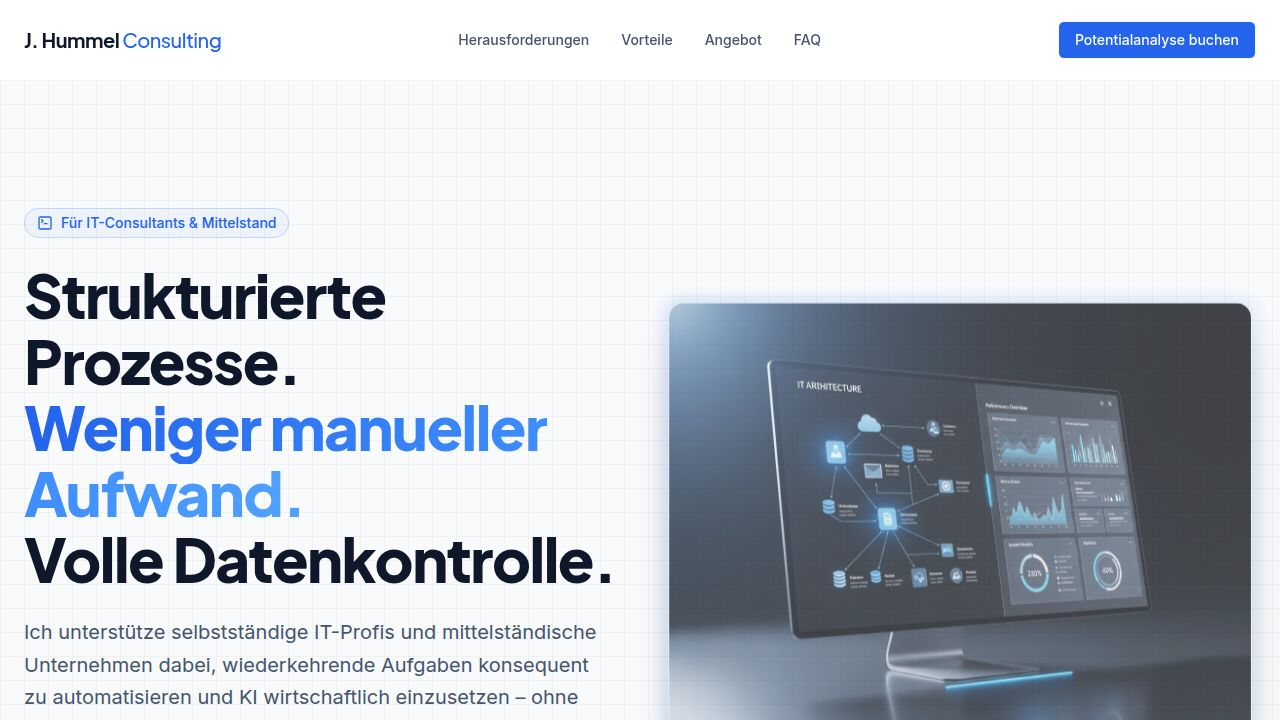
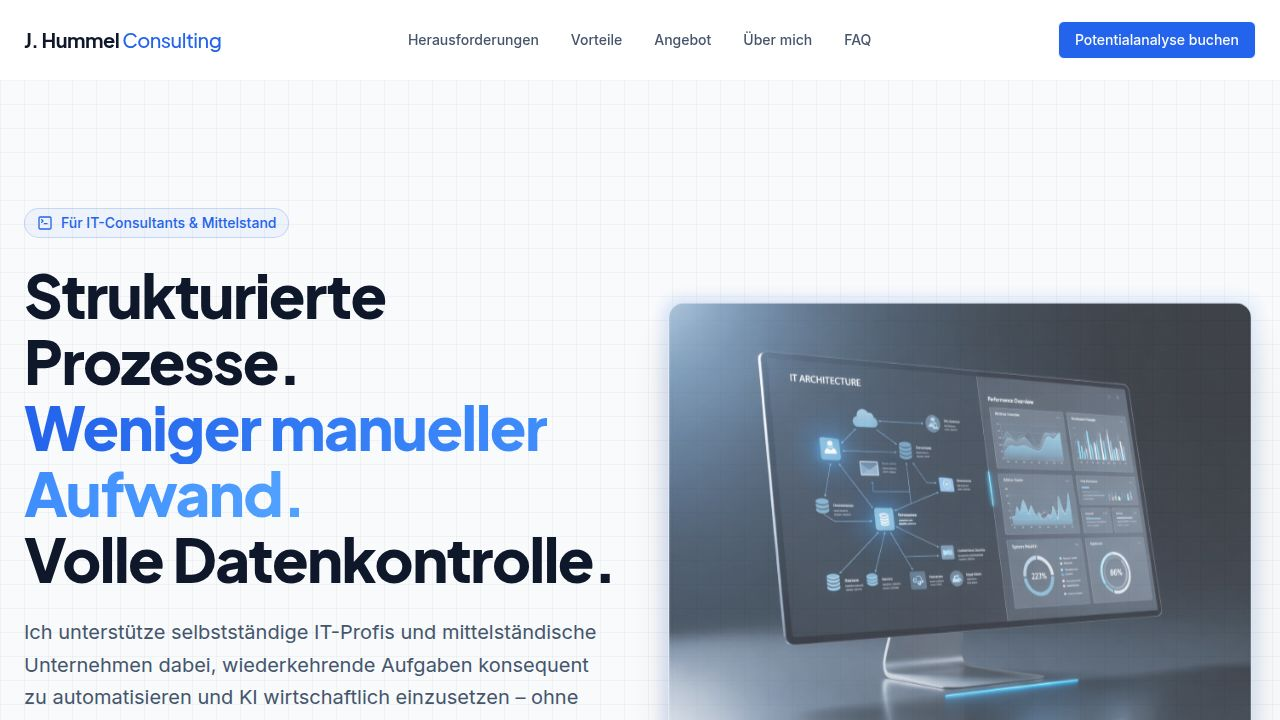
Add an "About Me" section with personal and professional details
Adds a new section to the homepage with a personal image, professional background, and areas of expertise, along with a corresponding navigation link.

Replit-Commit-Author: Agent
Replit-Commit-Session-Id: 31060581-7077-426e-ab5c-499efef7b3fa
Replit-Commit-Checkpoint-Type: full_checkpoint
Replit-Commit-Event-Id: f2a726f4-e91f-4652-91a8-ffe96a462d79
Replit-Commit-Screenshot-Url: https://storage.googleapis.com/screenshot-production-us-central1/801673db-f170-4c18-a2c9-297daf397d8e/31060581-7077-426e-ab5c-499efef7b3fa/I8k1oKl
Replit-Helium-Checkpoint-Created: true

Changed region(s): [[0.5938, 0.4889, 0.9688, 1.0], [0.3125, 0.0306, 0.6875, 0.0611], [0.625, 0.8861, 0.6562, 0.9167]]

diff --git a/client/src/pages/Home.tsx b/client/src/pages/Home.tsx
@@ -82,6 +82,7 @@ export default function Home() {
             <a href="#problem" className="hover:text-primary transition-colors">Herausforderungen</a>
             <a href="#vorteile" className="hover:text-primary transition-colors">Vorteile</a>
             <a href="#angebot" className="hover:text-primary transition-colors">Angebot</a>
+            <a href="#ueber-mich" className="hover:text-primary transition-colors">Über mich</a>
             <a href="#faq" className="hover:text-primary transition-colors">FAQ</a>
           </div>
           <Button onClick={scrollToContact} className="font-medium">
@@ -370,6 +371,77 @@ export default function Home() {
                   <p className="text-slate-400 leading-relaxed">{item.desc}</p>
                 </motion.div>
               ))}
+            </div>
+          </div>
+        </section>
+
+        {/* ÜBER MICH */}
+        <section id="ueber-mich" className="py-24 bg-white border-t border-slate-100">
+          <div className="max-w-7xl mx-auto px-6">
+            <div className="grid lg:grid-cols-5 gap-12 lg:gap-16 items-start">
+              <motion.div
+                initial={{ opacity: 0, x: -30 }}
+                whileInView={{ opacity: 1, x: 0 }}
+                viewport={{ once: true }}
+                transition={{ duration: 0.6 }}
+                className="lg:col-span-2 flex flex-col items-center lg:items-start"
+              >
+                <div className="relative mb-6">
+                  <div className="absolute -inset-2 bg-gradient-to-br from-primary/30 to-blue-400/20 rounded-2xl blur-lg opacity-60"></div>
+                  <img
+                    src="/images/joachim-hummel.png"
+                    alt="Joachim Hummel - IT Consultant"
+                    className="relative rounded-2xl shadow-xl w-72 lg:w-full object-cover border border-slate-200/50"
+                    data-testid="img-portrait"
+                  />
+                </div>
+                <div className="text-center lg:text-left">
+                  <h3 className="text-xl font-bold text-slate-900">Joachim Hummel</h3>
+                  <p className="text-primary font-medium text-sm">IT-Consultant & KI-Automatisierung</p>
+                </div>
+              </motion.div>
+
+              <motion.div
+                initial={{ opacity: 0, x: 30 }}
+                whileInView={{ opacity: 1, x: 0 }}
+                viewport={{ once: true }}
+                transition={{ duration: 0.6, delay: 0.15 }}
+                className="lg:col-span-3"
+              >
+                <h2 className="text-3xl md:text-4xl font-bold text-slate-900 mb-8" data-testid="text-ueber-mich-title">Über mich</h2>
+                <div className="space-y-5 text-lg text-slate-600 leading-relaxed">
+                  <p>
+                    Ich bin seit über 30 Jahren im IT-Umfeld tätig – vom operativen Betrieb bis zur Architektur komplexer Systeme. Als selbstständiger IT-Consultant kenne ich die Realität aus Projekten, nicht aus Lehrbüchern.
+                  </p>
+                  <p>
+                    Mein Fokus liegt auf wirtschaftlich sinnvoller KI-Automatisierung und sauberer Prozessarchitektur für IT-nahe Unternehmen und erfahrene Consultants im DACH-Raum.
+                  </p>
+                  <p className="font-medium text-slate-800">Ich unterstütze dabei,</p>
+                  <ul className="space-y-3 ml-1">
+                    {[
+                      "wiederkehrende Abläufe zu standardisieren",
+                      "manuellen Aufwand messbar zu reduzieren",
+                      "KI datensouverän und strukturiert einzusetzen",
+                      "technische Lösungen nachhaltig aufzubauen",
+                    ].map((item, idx) => (
+                      <li key={idx} className="flex items-start gap-3">
+                        <CheckCircle2 className="w-5 h-5 text-primary mt-1 flex-shrink-0" />
+                        <span>{item}</span>
+                      </li>
+                    ))}
+                  </ul>
+                  <div className="pt-4 border-t border-slate-200 space-y-4">
+                    <p>
+                      Dabei gilt: <span className="font-semibold text-slate-800">Erst Struktur, dann Technologie.</span><br/>
+                      Automatisierung muss Marge erhöhen oder Zeit freisetzen – sonst ist sie überflüssig.
+                    </p>
+                    <p>
+                      Ich arbeite klar, pragmatisch und ergebnisorientiert.<br/>
+                      Ohne Hype. Ohne unnötige Abhängigkeiten. Mit Fokus auf nachhaltigen unternehmerischen Nutzen.
+                    </p>
+                  </div>
+                </div>
+              </motion.div>
             </div>
           </div>
         </section>
